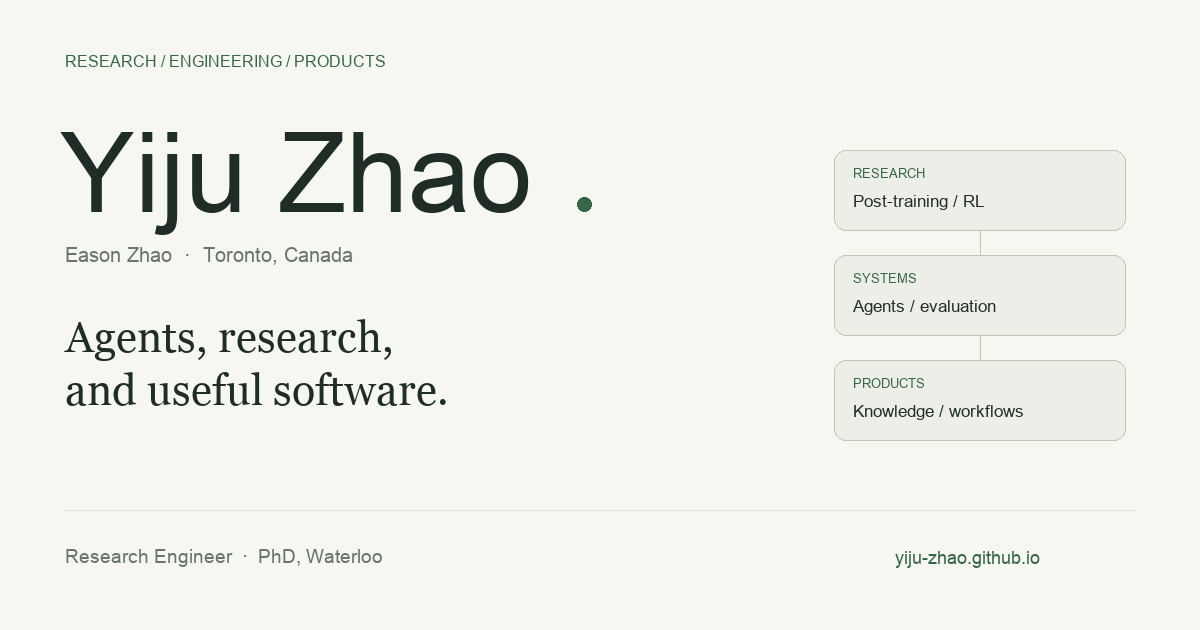
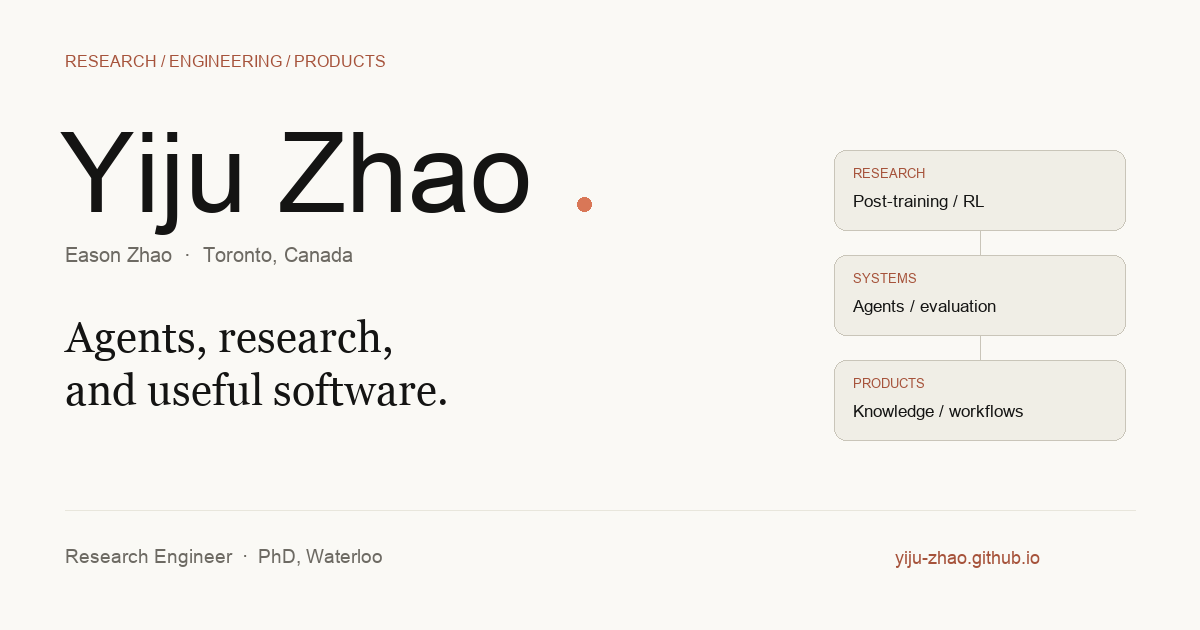
Adopt Claude-inspired warm neutral and terracotta palette

diff --git a/styles.css b/styles.css
@@ -4,7 +4,7 @@
 .page { max-width: 1328px; padding-inline: 64px; margin-inline: auto; }
 .nav { position: sticky; top: 0; z-index: 10; display: flex; align-items: center; gap: 36px; min-height: 88px; border-bottom: 1px solid var(--color-rule); background: var(--color-paper); }
 .wordmark { font: 600 25px/1 var(--font-display); letter-spacing: -.07em; text-decoration: none; flex-shrink: 0; }
-.wordmark span { color: var(--color-accent); }
+.wordmark span { color: var(--color-brand); }
 .nav__sections { display: flex; align-items: center; gap: 28px; margin-left: auto; }
 .nav a:not(.wordmark) { font-size: 12px; color: var(--color-muted); text-decoration: none; padding-block: 10px; }
 .nav a[aria-current], .nav a:hover { color: var(--color-ink); }
@@ -17,17 +17,17 @@ kbd { font: 10px var(--font-outlier); color: var(--color-muted); }
 .intro { display: grid; grid-template-columns: minmax(0, 1.15fr) minmax(0, .9fr); gap: clamp(36px, 6vw, 88px); align-items: center; padding-block: 88px 64px; }
 .eyebrow, .panel-label { font: 10px/1.6 var(--font-outlier); text-transform: uppercase; letter-spacing: .12em; color: var(--color-accent); }
 h1 { font-size: clamp(62px, 7.1vw, 102px); font-weight: 500; letter-spacing: -.075em; line-height: 1.05; margin-top: 21px; }
-h1 > span { color: var(--color-accent); }
+h1 > span { color: var(--color-brand); }
 .intro__identity { font-size: 12px; color: var(--color-muted); margin-top: 14px; }
 .intro__identity > span { padding-inline: 5px; }
 .intro__description { font-family: var(--font-editorial); font-size: clamp(24px, 2.6vw, 35px); letter-spacing: -.035em; line-height: 1.35; margin-top: 31px; max-width: 19em; }
 .intro__context { font-size: 14px; color: var(--color-ink-2); line-height: 1.85; margin-top: 17px; max-width: 36em; }
 .contact-links { display: flex; flex-wrap: wrap; gap: 10px 22px; margin-top: 24px; }
 .contact-links a { font-size: 12px; text-decoration: none; padding-block: 5px; }
-.hero-assistant { position: relative; border: 1px solid var(--color-rule-2); border-radius: 16px; background: var(--color-card); box-shadow: 0 16px 55px -40px #20332255; overflow: hidden; }
+.hero-assistant { position: relative; border: 1px solid var(--color-rule-2); border-radius: 16px; background: var(--color-card); box-shadow: 0 16px 55px -40px #14141326; overflow: hidden; }
 .hero-assistant::before { content: ""; position: absolute; width: 160px; height: 160px; border: 1px solid var(--color-rule); border-radius: 50%; right: -80px; top: -80px; pointer-events: none; }
 .hero-assistant__head { padding: 23px 26px 19px; display: flex; justify-content: space-between; align-items: center; gap: 12px; border-bottom: 1px solid var(--color-rule); }
-.assistant-mark { width: 24px; height: 24px; color: var(--color-accent); }
+.assistant-mark { width: 24px; height: 24px; color: var(--color-brand); }
 .hero-assistant__body { padding: 28px 26px 24px; }
 .hero-assistant h2 { font-family: var(--font-editorial); font-size: 28px; line-height: 1.25; letter-spacing: -.035em; max-width: 11em; }
 .hero-assistant__body > p { font-size: 13px; color: var(--color-ink-2); line-height: 1.8; margin-top: 13px; }
@@ -46,7 +46,7 @@ h1 > span { color: var(--color-accent); }
 .section__label > p { font-family: var(--font-editorial); font-size: clamp(22px, 2.5vw, 30px); line-height: 1.35; letter-spacing: -.035em; }
 .work { display: grid; grid-template-columns: minmax(0, .88fr) minmax(0, 1.12fr); border: 1px solid var(--color-rule); border-radius: 12px; background: var(--color-card); overflow: hidden; transition: border-color 160ms, box-shadow 160ms; }
 .work + .work { margin-top: 20px; }
-.work:hover { border-color: var(--color-rule-2); box-shadow: 0 8px 26px -20px #20332244; }
+.work:hover { border-color: var(--color-rule-2); box-shadow: 0 8px 26px -20px #1414131f; }
 .work__text { padding: 32px; min-width: 0; }
 .work__top { display: flex; align-items: baseline; flex-wrap: wrap; gap: 6px 10px; font: 9px/1.6 var(--font-outlier); color: var(--color-muted); }
 .work__number { color: var(--color-accent); }
@@ -149,7 +149,7 @@ details[open] > summary .expand::after { transform: rotate(90deg); }
 
 /* The portfolio assistant is a source-reading interface, not a fake chat log. */
 .assistant-dialog { width: min(700px, calc(100vw - 32px)); max-height: min(84dvh, 920px); margin: auto; border: 1px solid var(--color-rule-2); border-radius: 14px; background: var(--color-card); color: var(--color-ink); padding: 0; box-shadow: 0 30px 100px #0004; }
-.assistant-dialog::backdrop { background: #12201688; backdrop-filter: blur(6px); }
+.assistant-dialog::backdrop { background: #14141388; backdrop-filter: blur(6px); }
 .assistant-dialog__inner { padding: 28px; }
 .assistant-dialog__header { display: flex; align-items: flex-start; justify-content: space-between; gap: 20px; }
 .assistant-dialog h2 { font-family: var(--font-editorial); font-size: 31px; line-height: 1.25; letter-spacing: -.035em; }

diff --git a/tokens.css b/tokens.css
@@ -1,20 +1,24 @@
-/* Warm paper, ink, and a single botanical accent. */
+/* Claude / Anthropic-inspired palette.
+ * Reference: anthropics/skills, skills/brand-guidelines/SKILL.md.
+ * Brand orange is decorative; the deeper light-theme accent keeps small text readable.
+ */
 :root {
   color-scheme: light;
-  --color-paper: #f7f7f2;
-  --color-paper-2: #edeee7;
-  --color-card: #fdfdf9;
-  --color-ink: #202d26;
-  --color-ink-2: #536157;
-  --color-muted: #69756c;
-  --color-rule: #dce1d6;
-  --color-rule-2: #bcc7b6;
-  --color-accent: #386548;
-  --color-accent-wash: #e1ebd7;
-  --color-focus: #386548;
-  --color-stage: #e9eddf;
-  --color-dark: #23372c;
-  --color-dark-ink: #f1f5e9;
+  --color-paper: #faf9f5;
+  --color-paper-2: #f0eee6;
+  --color-card: #fffefa;
+  --color-ink: #141413;
+  --color-ink-2: #5e5b54;
+  --color-muted: #6d6a63;
+  --color-rule: #e8e6dc;
+  --color-rule-2: #c9c5b9;
+  --color-brand: #d97757;
+  --color-accent: #a6533b;
+  --color-accent-wash: #f4e5dc;
+  --color-focus: #a6533b;
+  --color-stage: #f0eee6;
+  --color-dark: #d97757;
+  --color-dark-ink: #141413;
   --font-cjk: "PingFang SC", "Hiragino Sans GB", "Microsoft YaHei";
   --font-display: "Helvetica Neue", Helvetica, Arial, var(--font-cjk), sans-serif;
   --font-body: -apple-system, BlinkMacSystemFont, "Segoe UI", var(--font-cjk), sans-serif;
@@ -23,18 +27,18 @@
 }
 :root[data-theme="dark"] {
   color-scheme: dark;
-  --color-paper: #141c17;
-  --color-paper-2: #202a23;
-  --color-card: #19231d;
-  --color-ink: #e5ebdf;
-  --color-ink-2: #b5c1b3;
-  --color-muted: #a0b09e;
-  --color-rule: #334238;
-  --color-rule-2: #566b56;
-  --color-accent: #bad5a4;
-  --color-accent-wash: #31462f;
-  --color-focus: #bad5a4;
-  --color-stage: #253428;
-  --color-dark: #2d4433;
-  --color-dark-ink: #f1f5e9;
+  --color-paper: #1f1e1d;
+  --color-paper-2: #2e2c29;
+  --color-card: #262624;
+  --color-ink: #faf9f5;
+  --color-ink-2: #d4d0c5;
+  --color-muted: #b0aea5;
+  --color-rule: #3d3a35;
+  --color-rule-2: #625d54;
+  --color-accent: #d97757;
+  --color-accent-wash: #483027;
+  --color-focus: #d97757;
+  --color-stage: #2c2926;
+  --color-dark: #d97757;
+  --color-dark-ink: #141413;
 }

diff --git a/scripts/render-social.py b/scripts/render-social.py
@@ -1,5 +1,6 @@
 """Render the site's original typographic social card (requires Pillow)."""
 from pathlib import Path
+import re
 from PIL import Image, ImageDraw, ImageFont
 
 root = Path(__file__).resolve().parent.parent
@@ -10,22 +11,25 @@ def font(name, size):
         if path.exists(): return ImageFont.truetype(str(path), size)
     raise RuntimeError('Install a serif and a sans font or adjust font paths.')
 
-im = Image.new('RGB', (1200, 630), '#f7f7f2')
+# Read the light-theme tokens so sharing artwork follows the website palette.
+css = (root / 'tokens.css').read_text().split(':root[data-theme=')[0]
+palette = dict(re.findall(r'(--[\w-]+):\s*(#[0-9a-fA-F]+)', css))
+im = Image.new('RGB', (1200, 630), palette['--color-paper'])
 d = ImageDraw.Draw(im)
-ink, muted, green, rule = '#202d26', '#69756c', '#386548', '#dce1d6'
-d.text((65, 52), 'RESEARCH / ENGINEERING / PRODUCTS', font=font('Arial.ttf', 16), fill=green)
+ink, muted, accent, rule = [palette[k] for k in ['--color-ink', '--color-muted', '--color-accent', '--color-rule']]
+d.text((65, 52), 'RESEARCH / ENGINEERING / PRODUCTS', font=font('Arial.ttf', 16), fill=accent)
 d.text((60, 110), 'Yiju Zhao', font=font('Arial.ttf', 112), fill=ink)
-d.ellipse((577, 197, 591, 211), fill=green)
+d.ellipse((577, 197, 591, 211), fill=palette['--color-brand'])
 d.text((65, 243), 'Eason Zhao  ·  Toronto, Canada', font=font('Arial.ttf', 20), fill=muted)
 d.text((65, 312), 'Agents, research,', font=font('Georgia.ttf', 43), fill=ink)
 d.text((65, 365), 'and useful software.', font=font('Georgia.ttf', 43), fill=ink)
 for y, label, sub in [(150, 'RESEARCH', 'Post-training / RL'), (255, 'SYSTEMS', 'Agents / evaluation'), (360, 'PRODUCTS', 'Knowledge / workflows')]:
-    d.rounded_rectangle((834, y, 1125, y + 80), radius=12, fill='#edeee7', outline='#bcc7b6', width=1)
-    d.text((853, y + 16), label, font=font('Arial.ttf', 13), fill=green)
+    d.rounded_rectangle((834, y, 1125, y + 80), radius=12, fill=palette['--color-paper-2'], outline=palette['--color-rule-2'], width=1)
+    d.text((853, y + 16), label, font=font('Arial.ttf', 13), fill=accent)
     d.text((853, y + 41), sub, font=font('Arial.ttf', 17), fill=ink)
     if y < 360:
-        d.line((980, y + 80, 980, y + 105), fill='#bcc7b6', width=1)
+        d.line((980, y + 80, 980, y + 105), fill=palette['--color-rule-2'], width=1)
 d.line((65, 510, 1135, 510), fill=rule, width=1)
 d.text((65, 545), 'Research Engineer  ·  PhD, Waterloo', font=font('Arial.ttf', 19), fill=muted)
-d.text((895, 547), 'yiju-zhao.github.io', font=font('Arial.ttf', 18), fill=green)
+d.text((895, 547), 'yiju-zhao.github.io', font=font('Arial.ttf', 18), fill=accent)
 im.save(root / 'assets/social.png', optimize=True)
